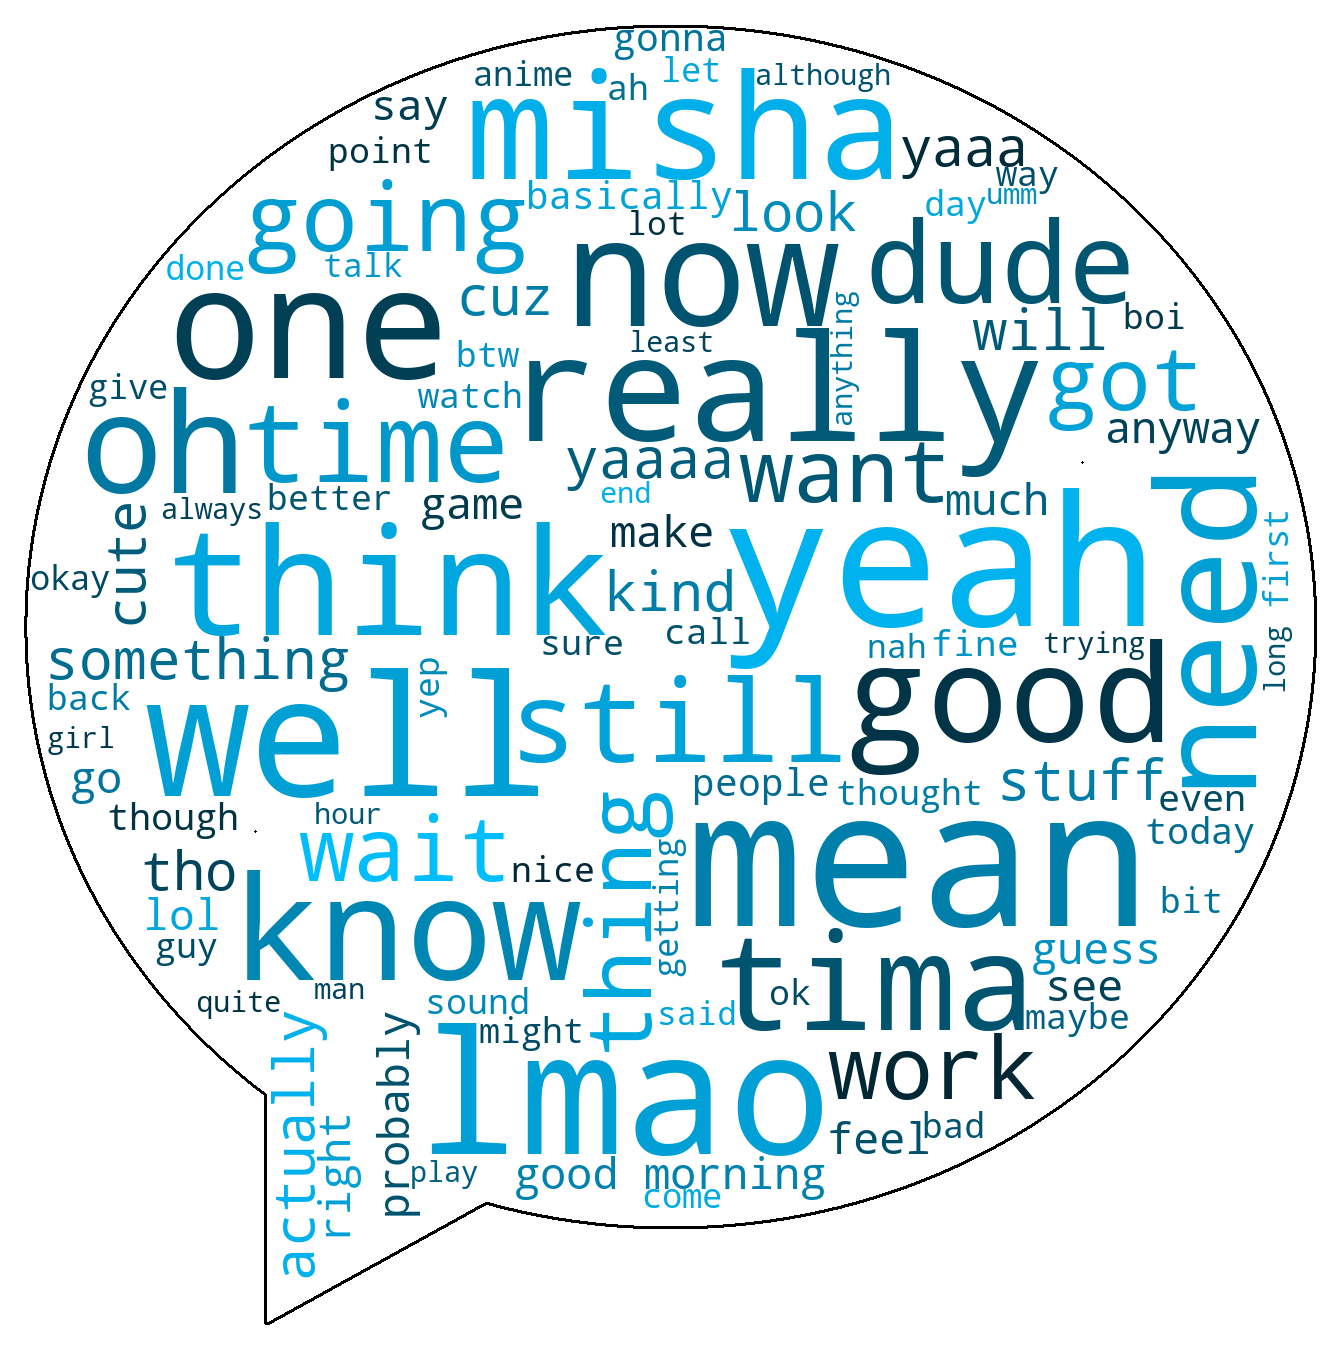
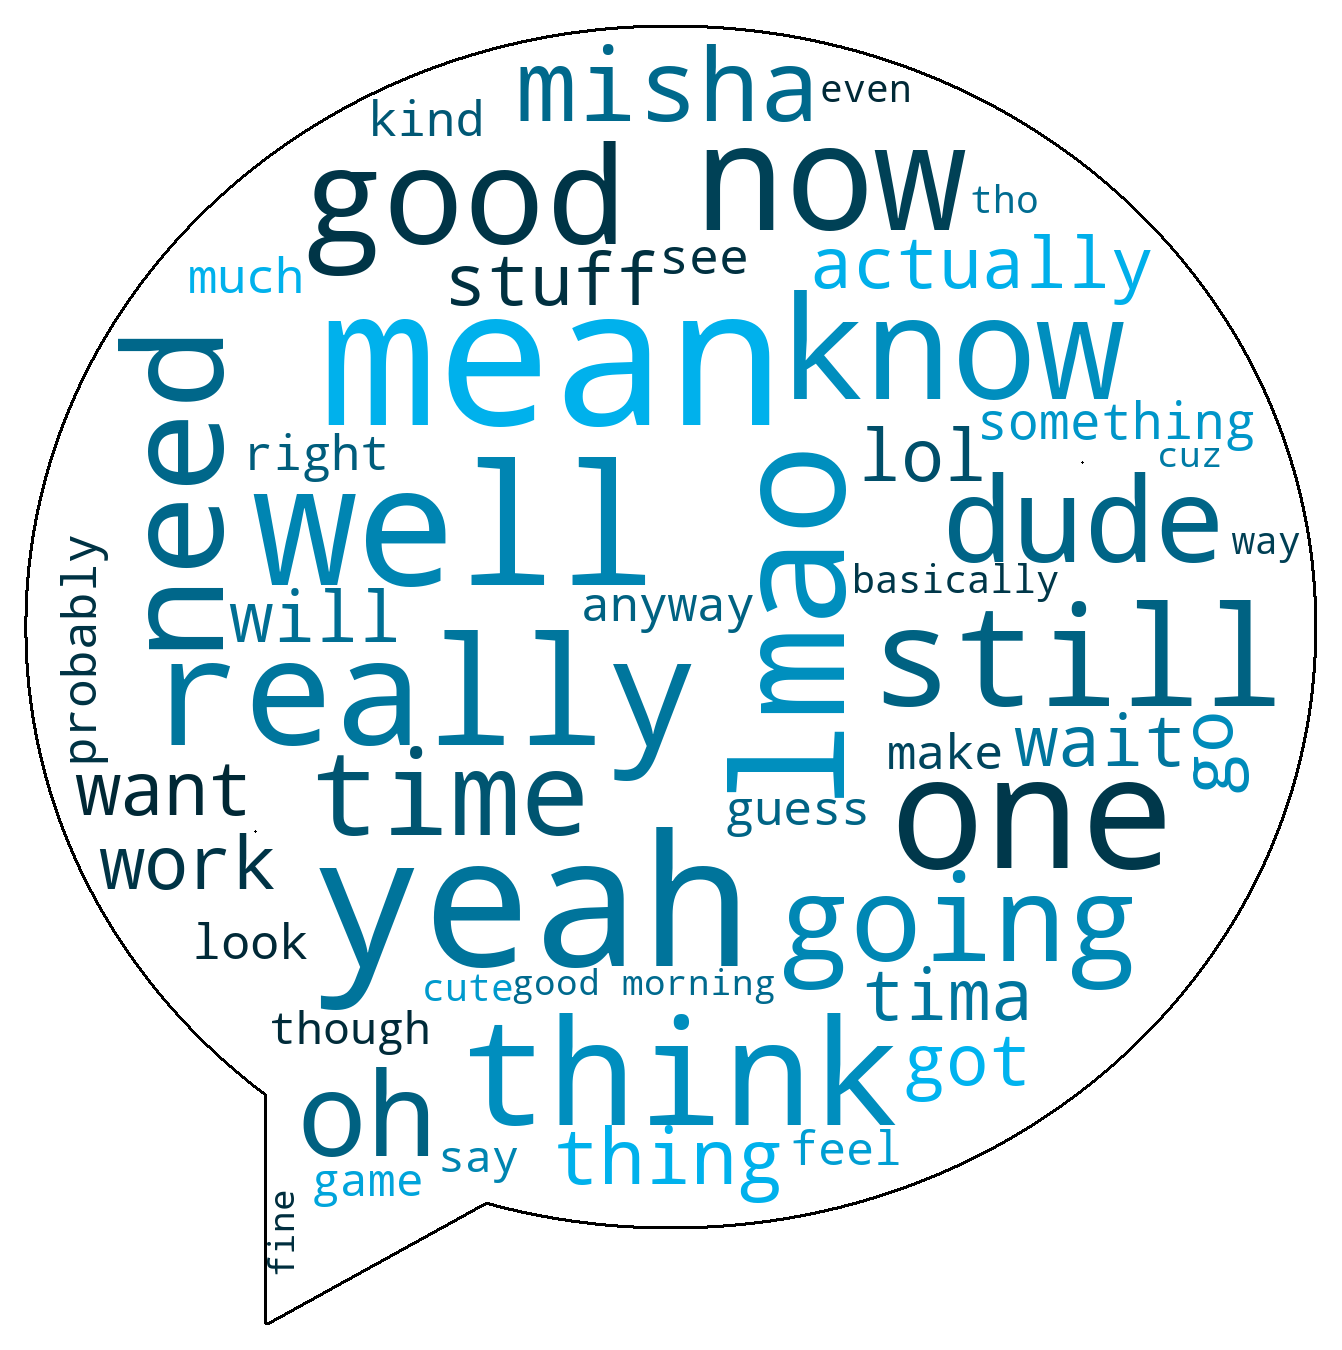
updated the readme, added comemnts

Changed region(s): [[0.0306, 0.0, 0.9776, 0.9644]]

diff --git a/python/wordcloud.py b/python/wordcloud.py
@@ -23,6 +23,7 @@ class RenderCloud(PythonTask):
             os.remove(i)
 
     def create_gif(self, images, chat_and_sender):
+        '''GIF generating function with image labels and fade transitions'''
         loaded_images = self.load_images(images)
         gif_images = []
         durations = []
@@ -71,10 +72,10 @@ class RenderCloud(PythonTask):
                               , contour_color= c_colour
                               , color_func = color_func1).generate(text)
 
-        # # store wordcloud image in "python/img"
-        #
+        # store wordcloud image in "python/img"
+
         wordcloud.to_file(f"python/img/{name}_wordcloud.png")
-        #
+
         # declare show=True if you want to show wordclouds
 
         if show:
@@ -111,10 +112,10 @@ class RenderCloud(PythonTask):
         with self.step("Generating clouds"):
 
             stopwords = STOPWORDS.update(self.parameters["stopwords"])
-            # self.info("Generating facebook_wordcloud.png")
-            # self.word_cloud("facebook", full_text, stopwords)
+            self.info("Generating facebook_wordcloud.png")
+            self.word_cloud("facebook", full_text, stopwords)
 
-            # Source specific wordclouds
+            # Timelapse wordcloud GIFs
 
             images = {}
 

diff --git a/python/youtube_playlists.py b/python/youtube_playlists.py
@@ -18,7 +18,6 @@ class AutoPlaylist(PythonTask):
         if len(existing_videos) < playlist_length:
             for item in response["items"]:
                 existing_videos.append(item["snippet"]["resourceId"]["videoId"])
-            print(f"existing_videos: {len(existing_videos)} ")
             if "nextPageToken" in response.keys():
                 self.get_existing_videos(playlist_id, existing_videos, response["nextPageToken"])
 
@@ -61,9 +60,7 @@ class AutoPlaylist(PythonTask):
 
         if len(check) > 0:
             playlist_id = check[0]
-            print(f"starting size:{len(list_of_ids)} ")
             list_of_ids = list(set(list_of_ids)^set(self.get_existing_videos(playlist_id)))
-            print(f"ending size:{len(list_of_ids)} ")
         else:
             request = self.youtube.playlists().insert(
                 part="snippet",

diff --git a/python/mosaic_creator.py b/python/mosaic_creator.py
@@ -84,8 +84,6 @@ def createPhotomosaic(target_image, input_images, grid_size,
         avg = getAverageRGB(img)
         match_index = getBestMatchIndex(avg, avgs)
         output_images.append(input_images[match_index])
-        if count > 0 and batch_size > 10 and count % batch_size is 0:
-            print('processed %d of %d...' % (count, len(target_images)))
         count += 1
         # remove selected image from input if flag set
         if not reuse_images:

diff --git a/python/link_chart_race.py b/python/link_chart_race.py
@@ -10,7 +10,6 @@ class ChartRace(PythonTask):
 
     def run(self):
 
-        colours = ['viridis', 'plasma', 'inferno', 'magma', 'cividis']
         table = self.project_parameters["user_prefix"]+ self.task_parameters["table"]
         fixed = self.task_parameters["fixed"]
         df = pd.DataFrame(self.default_db.read_data(f"SELECT * FROM {table}"))

diff --git a/README.md b/README.md
@@ -2,8 +2,41 @@ This is an example SAYN project. It shows you how to implement and use SAYN for 
 
 For more details, you can see the documentation here: https://173tech.github.io/sayn/
 
-----
-Quick overview:
+![ETL](/dag.png)
+
+
+Quick Overview:
+
+To run this project you will need your Facebook Messenger data in JSON format, you can get request it by doing the following:
+- Settings & Privacy > Settings > Your Facebook Information > Download Your Information 
+- Change format to JSON and click Create File (this can take a while depending on your date range and media quality)
+
+Once you have the data:
+- Copy the folder called `inbox` inside the `messages` subfolder and paste it inside the `python` folder of the project
+- Rename the `inbox` folder to `messenger_data`
+- Rename the file `sample_settings` to `settings` (this can be found in the root of the project)
+
+Note: If you have a large amount of chat data you should only select a subset of your data to avoid longer load times for certain tasks
+
+This project is made up of 9 tasks shown in the above diagram.
+
+Specific Task Requirements:
+
+wordcloud
+- `facebook_name` parameter should be changed to your name on facebook
+
+photo_mosaic
+- `user_data` parameter should be set to name of the folder with the chat data (usually looks like FriendName_chatId)
+
+link_chart_race
+- Requires `ImageMagick` to be installed, link: link: https://imagemagick.org/
+
+youtube_playlists
+- Requires a YouTube Channel
+- Requires Google's OAuth 2.0 authorisation credentials, more details here: https://developers.google.com/youtube/v3/guides/auth/client-side-web-apps
+- Once you have the credentials, add them to the `sample_secrets` folder and rename the file to `client_secrets`, rename `sample_secrets` folder to `secrets`
+- `user` parameter should be set to name of the folder with the chat data (usually looks like FriendName_chatId)
+
 
 SAYN uses 2 key files to control the project:
   - settings.yaml: individual settings which are not shared
